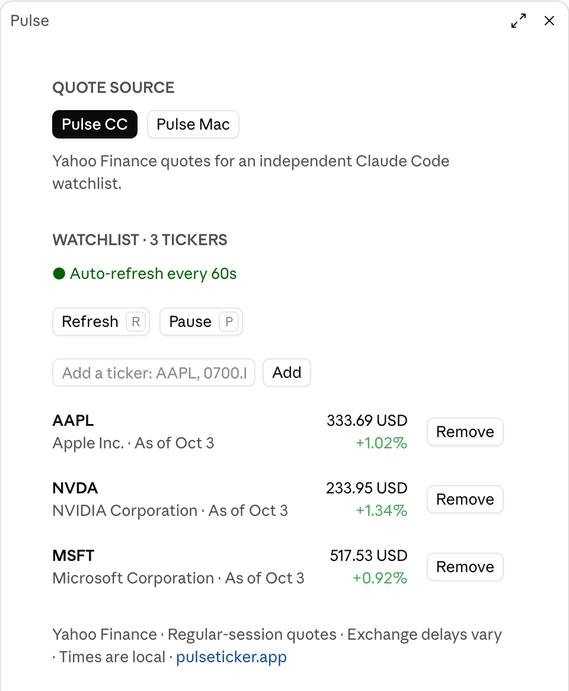
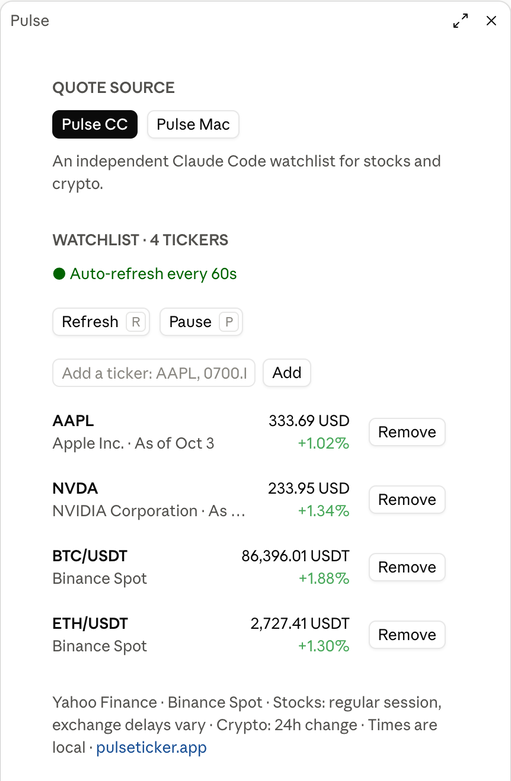
Release Pulse CC 0.3.5 to keep row buttons aligned in narrow panes
In a narrow Claude Desktop pane, a long name such as "NVIDIA Corporation"
kept its full width and pushed that row's button past the others: flex
items default to their content width. Let the name column shrink and
truncate. Refresh the Desktop screenshot with stocks and crypto pairs.

diff --git a/plugins/claude-code/hooks/register.tsx b/plugins/claude-code/hooks/register.tsx
@@ -281,9 +281,11 @@ export const register: Register = (on, options) => {
           const stale = quote ? formatStaleDate(quote.timestamp, now) : ''
           const meta = quote ? [quote.name, stale && `As of ${stale}`,
             !!quote.delaySeconds && `Delay ${Math.ceil(quote.delaySeconds / 60)}m`].filter(Boolean).join(' · ') : ''
+          // minWidth 0 lets a long name truncate instead of pushing the row's
+          // button out of a narrow Desktop pane (flex items default to content width).
           return <Box key={`ticker-${symbol}`} flexDirection="column" width="100%" marginTop={index ? rowGap : 0}>
             <Box gap={2} alignItems="center" width="100%">
-              <Box flexDirection="column" flexGrow={1} flexShrink={1}>
+              <Box flexDirection="column" flexGrow={1} flexShrink={1} minWidth={0}>
                 <Text bold wrap="truncate">{symbol}</Text>
                 {!compact && meta && <Text dimColor wrap="truncate">{meta}</Text>}
               </Box>
@@ -360,7 +362,7 @@ export const register: Register = (on, options) => {
           const meta = stale ? `${item.name} · As of ${stale}` : item.name
           return <Box key={`mac-row-${group.id}-${key}`} flexDirection="column" width="100%" marginTop={rowGap}>
             <Box gap={2} alignItems="center" width="100%">
-              <Box flexDirection="column" flexGrow={1} flexShrink={1}>
+              <Box flexDirection="column" flexGrow={1} flexShrink={1} minWidth={0}>
                 <Text bold wrap="truncate">{`${item.displayCode} · ${item.market.toUpperCase()}`}</Text>
                 {!compact && <Text dimColor wrap="truncate">{meta}</Text>}
               </Box>
@@ -431,7 +433,7 @@ function startWatch($: EngineInterface, watch: Watchlist, mac: MacLink): Promise
     sleep: ms => $.clock.sleep(ms),
     after: (ms, callback) => $.clock.after(ms, callback),
     fetch: url => $.http.fetch(url, {
-      headers: { 'User-Agent': 'Pulse-CC/0.3.4', Accept: 'application/json' },
+      headers: { 'User-Agent': 'Pulse-CC/0.3.5', Accept: 'application/json' },
     }),
     redraw: () => $.ui.invalidate('ui.render'),
   })

diff --git a/README.md b/README.md
@@ -43,7 +43,7 @@ from the plugin. Requires Claude Code **2.1.287 or later**, with Mods enabled.
 
 The `/pulse` panel works in the terminal and in Claude Desktop's **Code** tab:
 
-<img src="assets/readme/pulse-cc-desktop-panel.png" width="480" alt="Pulse CC panel in Claude Desktop with the quote source buttons, an add field and three tickers">
+<img src="assets/readme/pulse-cc-desktop-panel.png" width="480" alt="Pulse CC panel in Claude Desktop with two stocks and two crypto pairs">
 
 Connect Pulse Mac to browse its watchlist groups and choose which tickers to display:
 

diff --git a/plugins/claude-code/README.md b/plugins/claude-code/README.md
@@ -81,7 +81,7 @@ In the terminal, a fullscreen session docks the panel beside the conversation:
 
 In Claude Desktop's **Code** tab, the panel opens beside the chat with native buttons:
 
-<img src="../../assets/readme/pulse-cc-desktop-panel.png" width="480" alt="Pulse CC panel in Claude Desktop with the quote source buttons, an add field and three tickers">
+<img src="../../assets/readme/pulse-cc-desktop-panel.png" width="480" alt="Pulse CC panel in Claude Desktop with two stocks and two crypto pairs">
 
 ## Connect Pulse Mac
 
